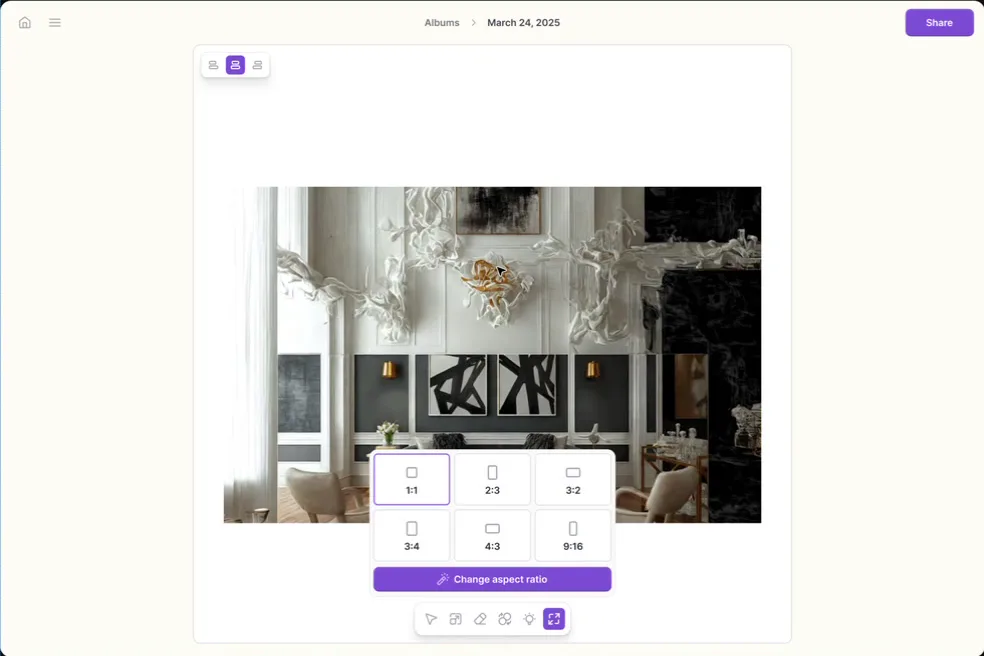
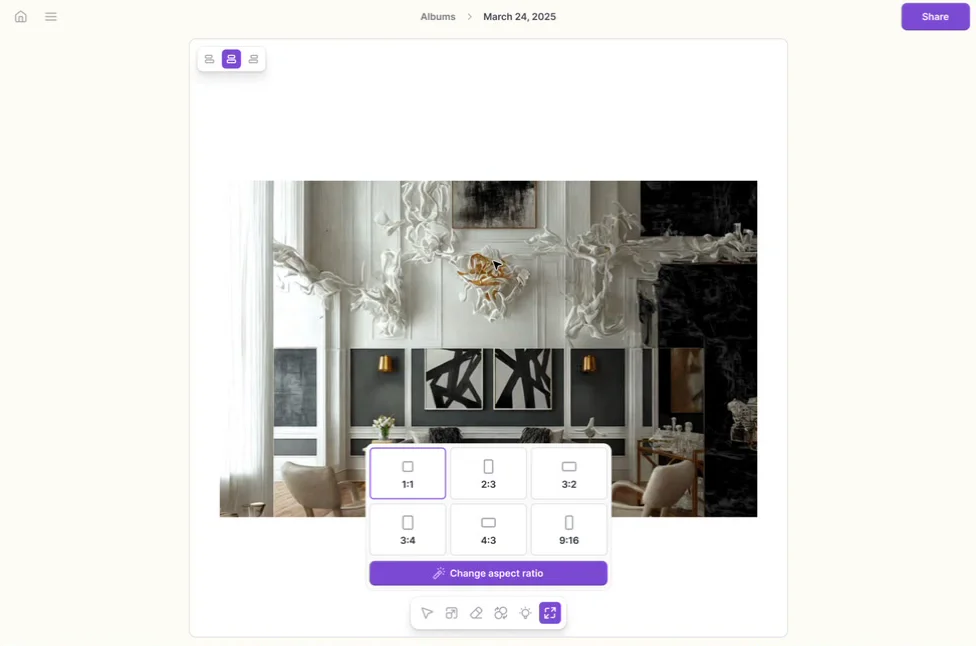
DecorX: clean edges on the editor stills, both 2026 stills dark
Every still is re-cropped a few pixels inside its edge, so the Figma frame lines on the left and top are gone, along with a strip of a second screenshot behind the staging one. Compare (Oct 2026) comes out as too new; the dark Batch edit view with close-ups from detected objects, from the same May 2026 changelog as staging, takes its place.

diff --git a/app/work/decorx/page.tsx b/app/work/decorx/page.tsx
@@ -45,14 +45,15 @@ const SECTIONS = [
 
 /**
  * The edit view. 2025: his Edit Image Loom of 16 May 2025, at 2:43 and 4:31, cropped to the design. 2026: the
- * changelog's Designer screenshot (room cleaning and virtual staging, May 2026) and the Compare view (30 Oct 2026).
+ * changelog's screenshots of 28 May 2026: Designer with room cleaning and virtual staging, and the Batch edit view
+ * with close-ups from detected objects. Both dark, at his call; the Compare view (Oct 2026) came out as too new.
  */
 const EDITOR: Still[] = [
   {
     label: "Erase",
     src: "editor-2025-erase.webp",
-    width: 994,
-    height: 662,
+    width: 986,
+    height: 654,
     alt: "The 2025 edit view with two paintings on the wall painted over in purple, a brush size slider and an Erase button",
     title: "Erase, 2025",
     text: "Paint over what should go, and DecorX fills the space.",
@@ -60,8 +61,8 @@ const EDITOR: Still[] = [
   {
     label: "Ratio",
     src: "editor-2025-aspect.webp",
-    width: 984,
-    height: 656,
+    width: 976,
+    height: 646,
     alt: "The 2025 edit view with a grid of six aspect ratios over the image",
     title: "Aspect ratio, 2025",
     text: "Pick a new shape from six ratios, from square to 9:16.",
@@ -70,19 +71,19 @@ const EDITOR: Still[] = [
     label: "Staging",
     src: "editor-2026-staging.webp",
     width: 1600,
-    height: 954,
+    height: 942,
     alt: "A dining room in DecorX's editor, with Room Cleaning above it and a Virtual Staging panel of rooms beside it",
     title: "Staging and room cleaning, 2026",
     text: "Stage products into a photo of a room, or clean the room of its furniture first.",
   },
   {
-    label: "Compare",
-    src: "editor-2026-compare.webp",
-    width: 1430,
-    height: 894,
-    alt: "A generated dining room beside the product photo of the table in it, with the edit tools on the right",
-    title: "Compare, 2026",
-    text: "Check an edit against the real product photo before keeping it.",
+    label: "Close-ups",
+    src: "editor-2026-closeup.webp",
+    width: 1600,
+    height: 942,
+    alt: "A dining room in DecorX's dark edit view, with the objects it found in the image listed beside it and 2K and 4K close-up options",
+    title: "Close-ups, 2026",
+    text: "Pick an object DecorX found in the image, such as a chair or a rug, and make a close-up of it at 2K or 4K.",
   },
 ];
 
@@ -201,7 +202,7 @@ export default function DecorX() {
       <Figure
         src="history-2026-pipeline.webp"
         caption="Two days in, the prototype wired a floor plan, its rooms and product sets into a step that generates each room. The gallery shows placeholder images."
-        height={1016}
+        height={1013}
         screen
       />
 
@@ -250,7 +251,7 @@ export default function DecorX() {
       <Stills
         items={EDITOR}
         label="Edit tool"
-        caption="Two stills from my May 2025 design in Figma, and two from DecorX's changelog."
+        caption="Two stills from my May 2025 design in Figma, and two from DecorX's changelog in May 2026."
       />
 
       <p className={styles.body}>
